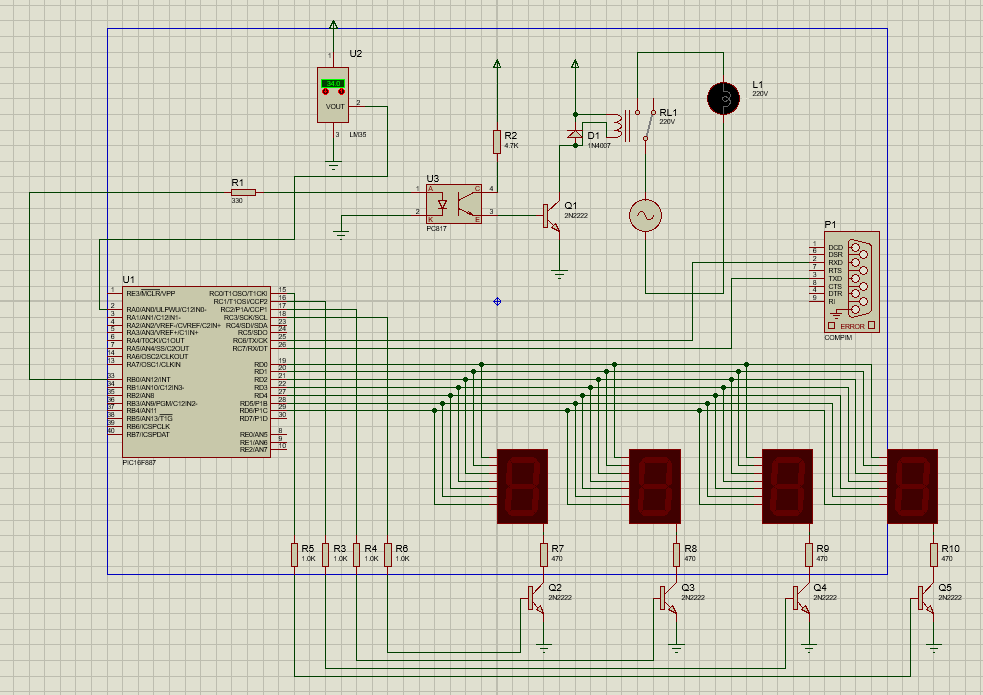
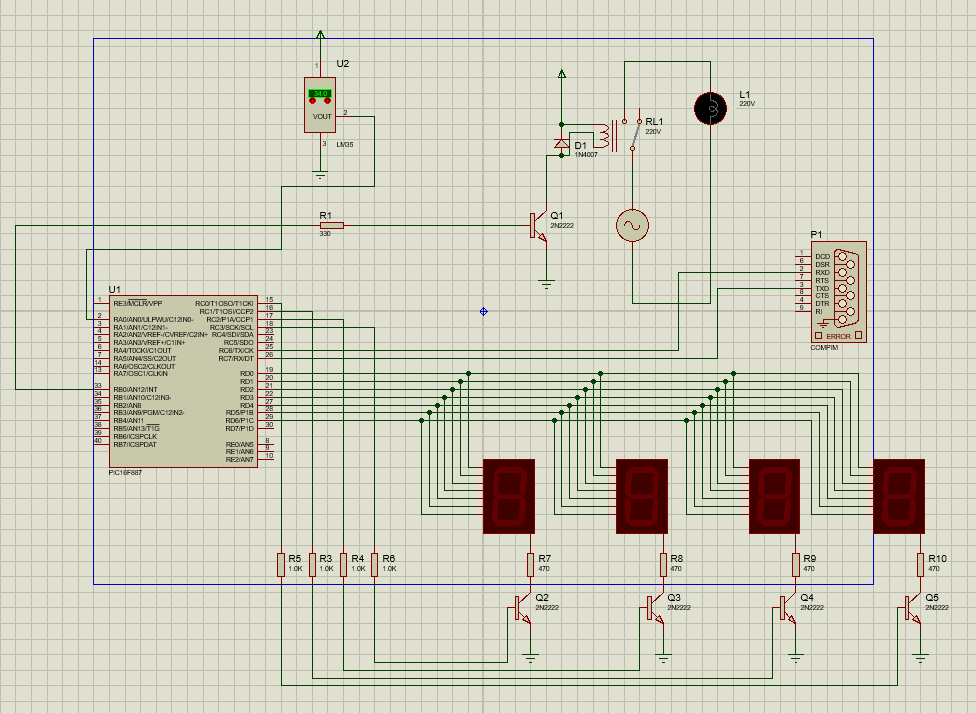
Fix image formatting in README.md and update schematic diagram

Changed region(s): [[0.0, 0.0, 1.0, 1.0]]

diff --git a/README.md b/README.md
@@ -104,8 +104,8 @@ La información se presenta en **4 displays de 7 segmentos multiplexados** y, en
 ## 📊 5. Ensayos, Pruebas y Resultados
 
 * **Evidencia Fotográfica y Gráficos:**
-![Prototipo](<docs/img/Prototipo en protoboard .jpeg>)
-![Setup](docs/img/Setup.jpeg)
+  ![Prototipo](<docs/img/Prototipo en protoboard .jpeg>)
+  ![Setup](docs/img/Setup.jpeg)
   ![Interfaz gráfica](<docs/img/Interfaz gráfica.jpeg>)
 ---
 